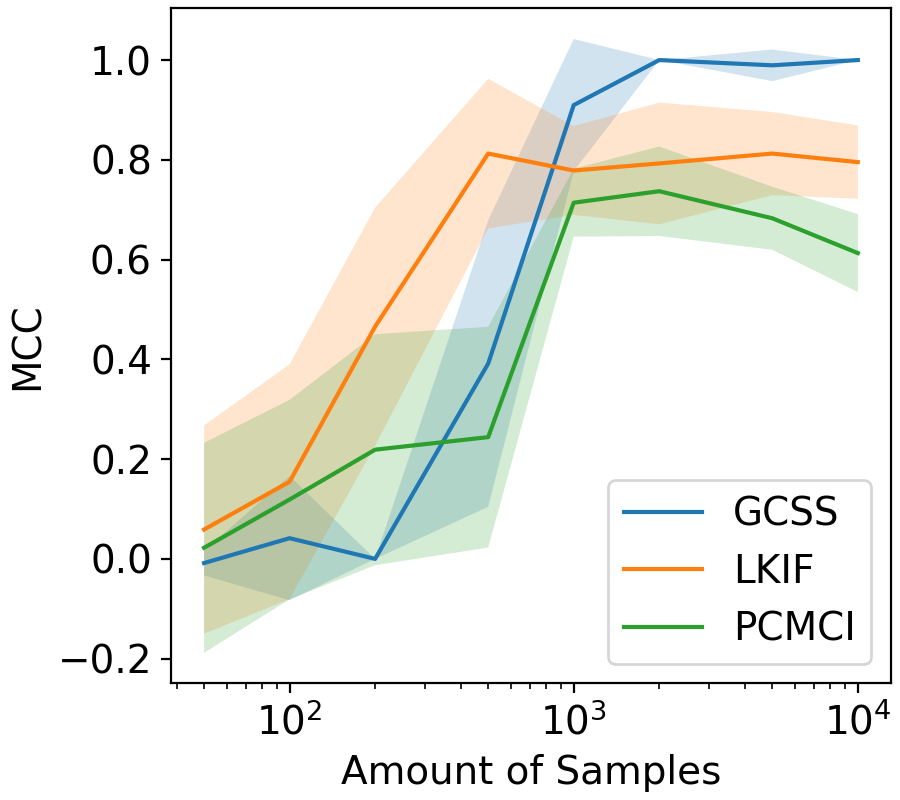
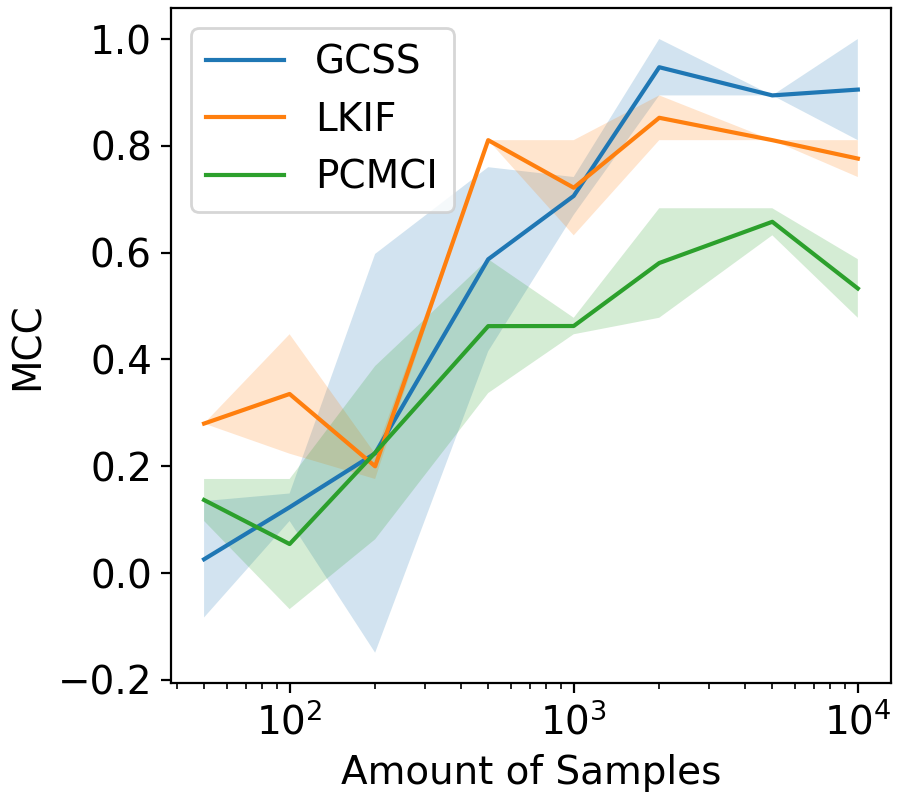
Something seems odd with PCMCI and high sample counts, the change back to contemp. links doesn't fix its bad detection power

diff --git a/Evaluation.py b/Evaluation.py
@@ -1297,63 +1297,77 @@ def mainEvaluations(analysisIndex = None):
     print(endTime - startTime)
     print(str(int((endTime - startTime)/60))+ " minutes")
     
-# def main():
-#     from mpi4py import MPI
-#     comm = MPI.COMM_WORLD
-#     rank = comm.Get_rank()
-#     size = comm.Get_size()
+def main():
+    from mpi4py import MPI
+    comm = MPI.COMM_WORLD
+    rank = comm.Get_rank()
+    size = comm.Get_size()
 
-#     plotOnly = True
-#     randomRuns = 2
-#     alpha = 0.05
-#     samples = 1000
-#     couplingStrength = 1
-#     tauMax = [5,1,5]
+    plotOnly = True
+    randomRuns = 2
+    alpha = 0.05
+    samples = 1000
+    couplingStrength = 1
+    tauMax = [5,1,5]
 
-#     if rank == 0:
-#         sample6dEvaluations(plotOnly = plotOnly,
-#         sampleCounts = [50, 100, 200, 500, 1000, 2000, 5000, 10000],
-#         alpha = alpha,
-#         randomRuns = randomRuns,
-#         tauMax = tauMax,
-#         couplingStrength=couplingStrength)
+    if rank == 0:
+        sample6dEvaluations(plotOnly = plotOnly,
+        sampleCounts = [50, 100, 200, 500, 1000, 2000, 5000, 10000],
+        alpha = alpha,
+        randomRuns = randomRuns,
+        tauMax = tauMax,
+        couplingStrength=couplingStrength)
     
-#     if rank == 1:
-#         couplStrength6dEvaluations(plotOnly = plotOnly,
-#         couplStrengths = np.array([0.01, 0.02, 0.05, 0.07,0.1,0.15,0.2,0.25,0.3]),
-#         samples = samples,
-#         alpha = alpha,
-#         randomRuns = randomRuns,
-#         tauMax = tauMax)
+    if rank == 1:
+        couplStrength6dEvaluations(plotOnly = plotOnly,
+        couplStrengths = np.array([0.01, 0.02, 0.05, 0.07,0.1,0.15,0.2,0.25,0.3]),
+        samples = samples,
+        alpha = alpha,
+        randomRuns = randomRuns,
+        tauMax = tauMax)
 
-#     if rank == 2:
-#         delay6dEvaluations(plotOnly = plotOnly,
-#         delaySizes = [0,0.1, 0.2, 0.3, 0.4, 0.5, 0.6,0.7,0.8,0.9,1.0, 1.5,2.0,3.0],
-#         samples = samples,
-#         alpha = alpha,
-#         randomRuns = randomRuns,
-#         couplStrength=couplingStrength)
+    if rank == 2:
+        delay6dEvaluations(plotOnly = plotOnly,
+        delaySizes = [0,0.1, 0.2, 0.3, 0.4, 0.5, 0.6,0.7,0.8,0.9,1.0, 1.5,2.0,3.0],
+        samples = samples,
+        alpha = alpha,
+        randomRuns = randomRuns,
+        couplStrength=couplingStrength)
 
-#     if rank == 3:
-#         system6dEvaluations(plotOnly = plotOnly,
-#         alpha = alpha,
-#         samples = samples,
-#         randomRuns = randomRuns,
-#         tauMax = tauMax,
-#         couplingStrength=couplingStrength)
+    if rank == 3:
+        system6dEvaluations(plotOnly = plotOnly,
+        alpha = alpha,
+        samples = samples,
+        randomRuns = randomRuns,
+        tauMax = tauMax,
+        couplingStrength=couplingStrength)
 
-#     if rank == 4:
-#         nonStationaryStable(plotOnly = plotOnly,
-#         ceilings = [0, 0.1, 0.2, 0.3, 0.4, 0.5, 0.8, 0.9, 1.0],
-#         alpha = alpha,
-#         samples = samples,
-#         tauMax = tauMax,
-#         randomRuns = randomRuns)
+    if rank == 4:
+        nonStationaryStable(plotOnly = plotOnly,
+        ceilings = [0, 0.1, 0.2, 0.3, 0.4, 0.5, 0.8, 0.9, 1.0],
+        alpha = alpha,
+        samples = samples,
+        tauMax = tauMax,
+        randomRuns = randomRuns)
 
 if __name__ == "__main__":
-    nonStationaryStable(plotOnly = True,
-        ceilings = [0, 0.1, 0.5, 0.8],
-        alpha = 0.05,
-        samples = 1000,
-        tauMax = [5,1,5],
-        randomRuns = 3)
+    main()
+    # nonStationaryStable(plotOnly = True,
+    #     ceilings = [0, 0.1, 0.5, 0.8],
+    #     alpha = 0.05,
+    #     samples = 1000,
+    #     tauMax = [5,1,5],
+    #     randomRuns = 3)
+    # plotOnly = False
+    # randomRuns = 2
+    # alpha = 0.05
+    # samples = 1000
+    # couplingStrength = 1
+    # tauMax = [5,1,5]
+
+    # sample6dEvaluations(plotOnly = plotOnly,
+    # sampleCounts = [50, 100, 200, 500, 1000, 2000, 5000, 10000],
+    # alpha = alpha,
+    # randomRuns = randomRuns,
+    # tauMax = tauMax,
+    # couplingStrength=couplingStrength)

diff --git a/PCMCI.py b/PCMCI.py
@@ -22,8 +22,8 @@ def PCMCIPlus(numeric_data, mask, var_names, mask_type, tauMax = 5, alpha = 0.05
         cond_ind_test=parcorr,
         verbosity=0)
 
-    #tau_min = 0 if contempLinks else 1
-    tau_min = 1
+    tau_min = 0 if contempLinks else 1
+    #tau_min = 1
     tau_max = tauMax
     pc_alpha = alpha
 
